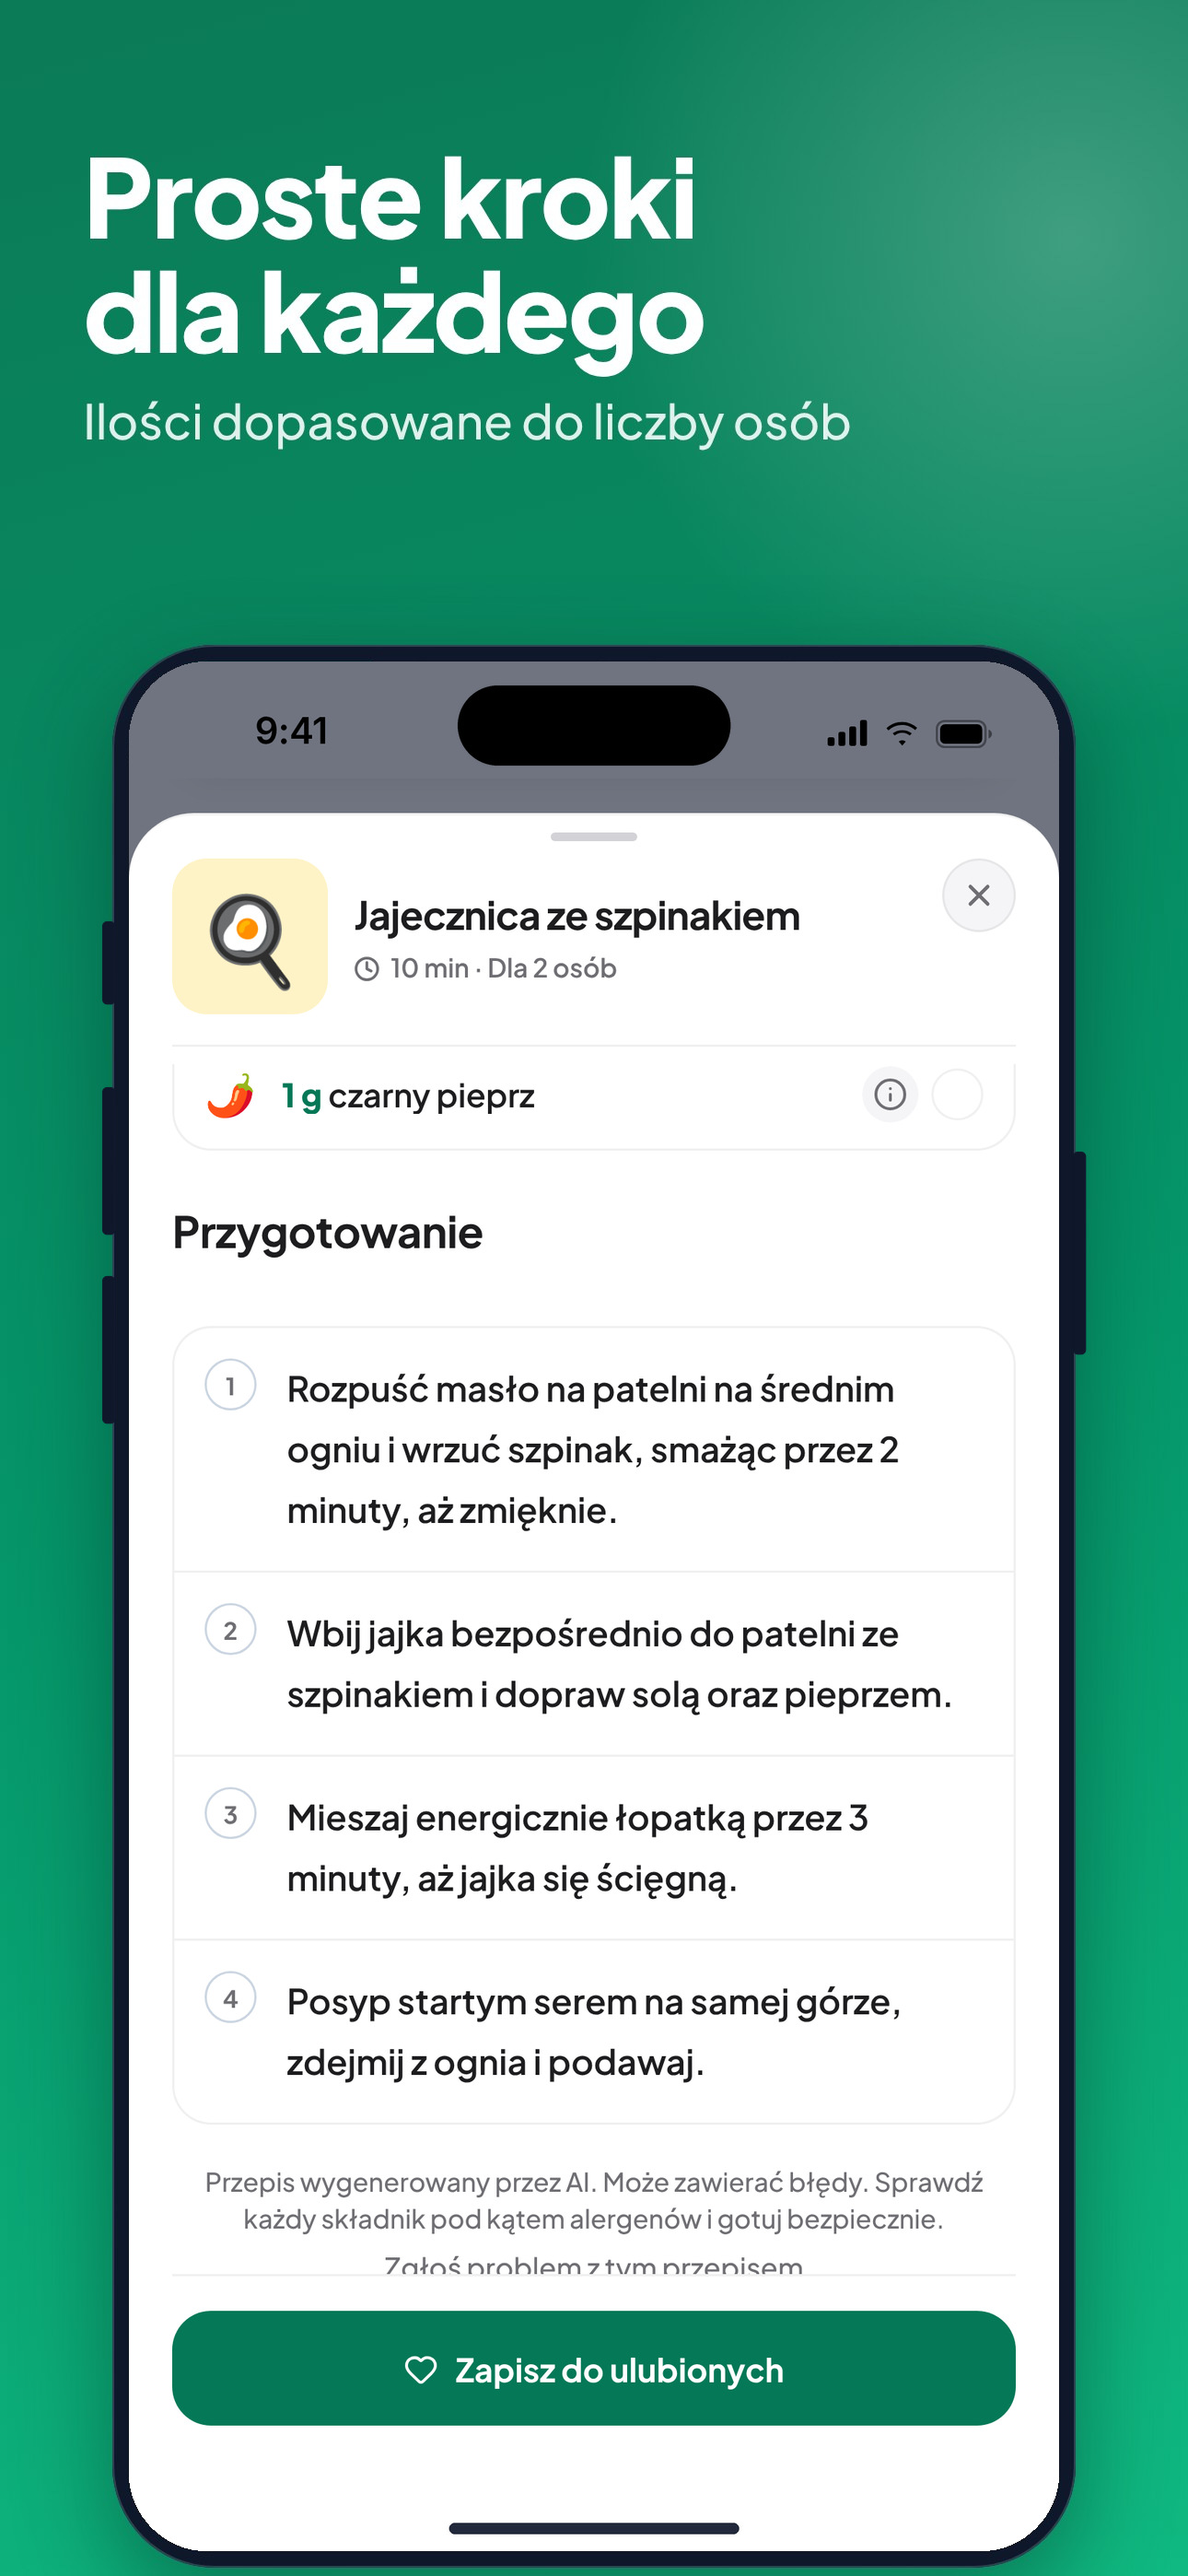
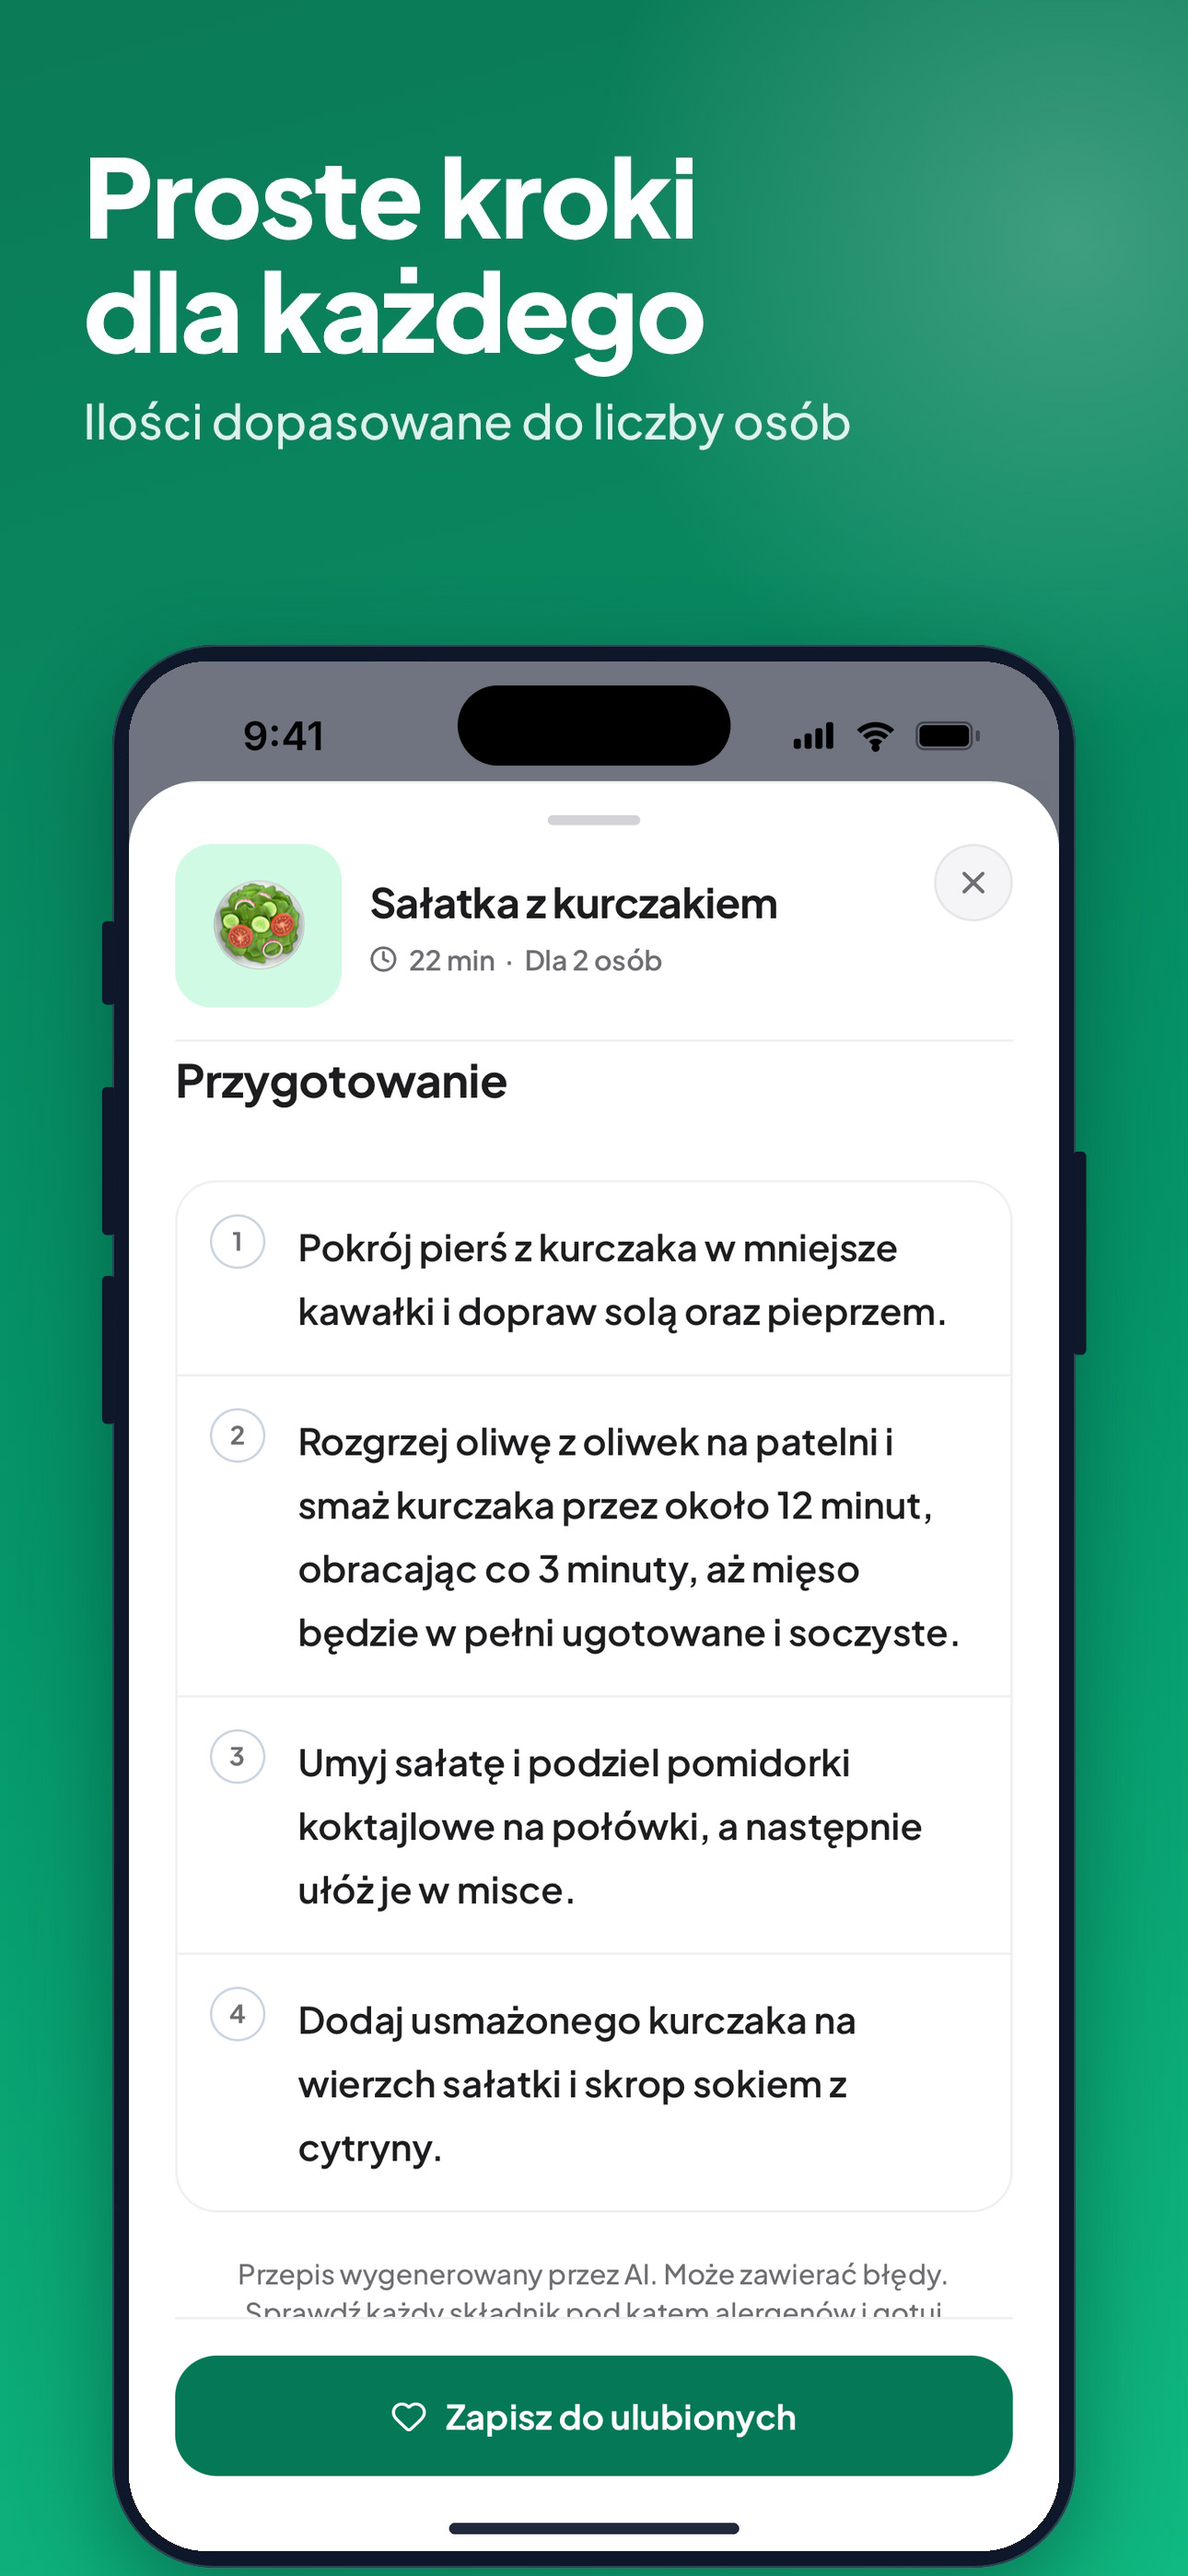
Store slides 01-06 (PL): real iPhone screenshots with a clean 9:41 status bar; whole PL set now from the real app
Claude-Session: https://claude.ai/code/session_01RtbBoobjW7cVhPz1v3aXm1

diff --git a/docs/store/screenshots/README.md b/docs/store/screenshots/README.md
@@ -44,4 +44,4 @@ Slides 01-07 in `final/ios-6.9/en/` are made from real iPhone 16 Pro screenshots
 PRO testing switch on for the PRO screens). `tools/clean_iphone.py <shot.png> <out.png> [top-rows]` swaps the live status bar for a clean
 9:41 and fits the screen to the frame's proportions; `tools/compose.py` then puts it in the slide. The Expo Go dev button (blue gear, top right)
 was retouched out by hand where it showed: patches copied from a clean area of the same screen, or mirrored from the other side of a symmetric card.
-The PL slides in `final/ios-6.9/pl/` are still the older web-captured ones.
+The PL slides in `final/ios-6.9/pl/` are made the same way (originals in `source/iphone/pl-*.png`; in 02 the end of the "Zostało 7 z 8 generowań" counter, hidden by the dev button, was redrawn in the app font).
